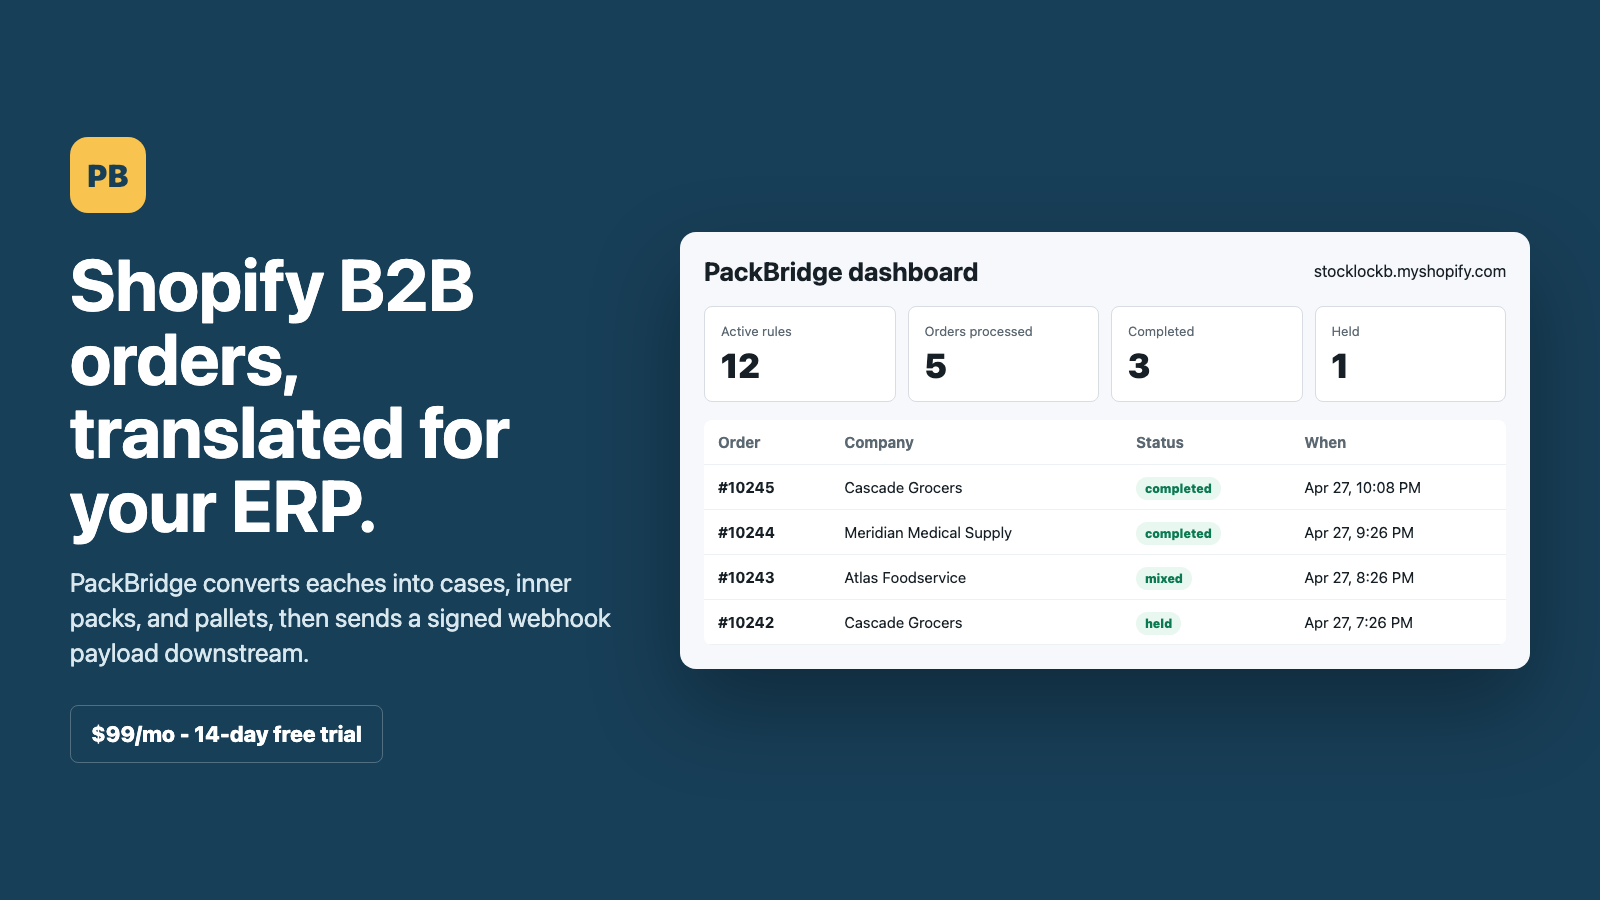
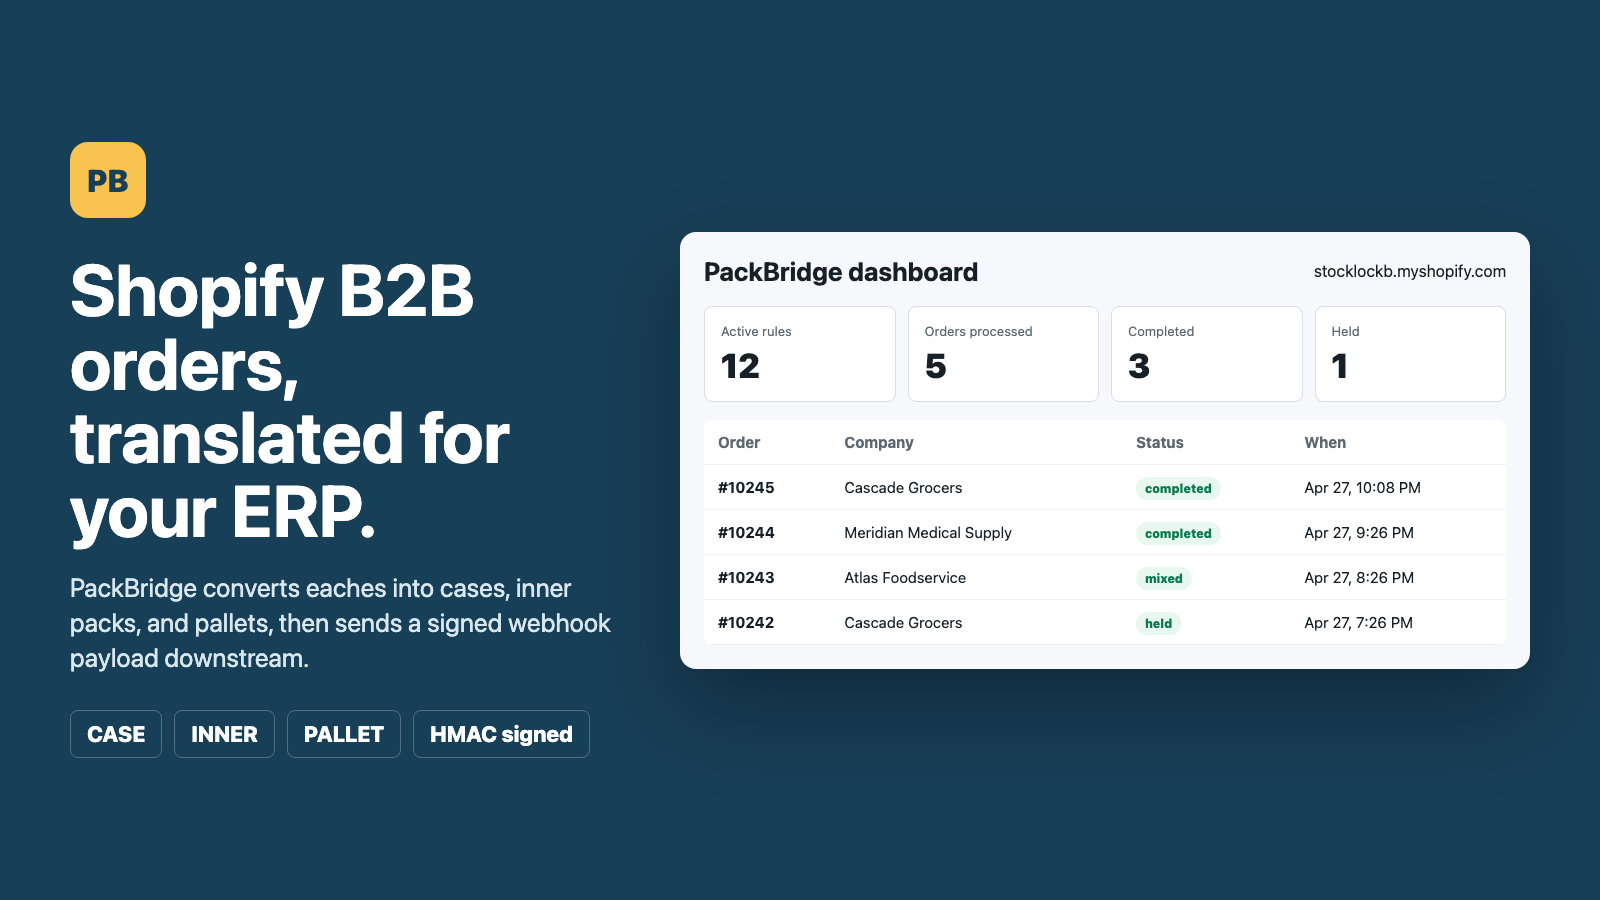
docs: align app store media with requirements

diff --git a/scripts/render-screenshots.ts b/scripts/render-screenshots.ts
@@ -446,7 +446,8 @@ function feature(data: Awaited<ReturnType<typeof loadData>>) {
     .mark { width:76px; height:76px; border-radius:18px; background:#f8c44f; color:${colors.navy}; display:grid; place-items:center; font-size:31px; font-weight:900; margin-bottom:34px; }
     h1 { font-size:72px; line-height:1.02; margin:0 0 24px; }
     p { color:#d9e8ee; font-size:26px; line-height:1.35; margin:0; }
-    .price { margin-top:34px; display:inline-flex; gap:14px; align-items:center; padding:15px 20px; border:1px solid rgba(255,255,255,.25); border-radius:8px; color:#fff; font-weight:800; font-size:22px; }
+    .chips { display:flex; gap:12px; flex-wrap:wrap; margin-top:34px; }
+    .chip { display:inline-flex; align-items:center; height:48px; padding:0 16px; border:1px solid rgba(255,255,255,.25); border-radius:8px; color:#fff; font-weight:800; font-size:22px; }
     .dash { background:#f6f8fb; border-radius:16px; padding:24px; color:${colors.ink}; box-shadow:0 38px 90px rgba(0,0,0,.32); }
     .top { display:flex; justify-content:space-between; align-items:center; margin-bottom:20px; }
     .top strong { font-size:26px; }
@@ -459,7 +460,7 @@ function feature(data: Awaited<ReturnType<typeof loadData>>) {
     th { color:${colors.muted}; }
     .badge { border-radius:999px; padding:4px 9px; background:#e8f7ef; color:${colors.green}; font-weight:900; font-size:12px; }
   </style></head><body><div class="hero">
-    <section><div class="mark">PB</div><h1>Shopify B2B orders, translated for your ERP.</h1><p>PackBridge converts eaches into cases, inner packs, and pallets, then sends a signed webhook payload downstream.</p><div class="price">$99/mo - 14-day free trial</div></section>
+    <section><div class="mark">PB</div><h1>Shopify B2B orders, translated for your ERP.</h1><p>PackBridge converts eaches into cases, inner packs, and pallets, then sends a signed webhook payload downstream.</p><div class="chips"><span class="chip">CASE</span><span class="chip">INNER</span><span class="chip">PALLET</span><span class="chip">HMAC signed</span></div></section>
     <section class="dash"><div class="top"><strong>PackBridge dashboard</strong><span>stocklockb.myshopify.com</span></div><div class="grid">
       <div class="card"><div class="label">Active rules</div><div class="num">${data.rules.length}</div></div>
       <div class="card"><div class="label">Orders processed</div><div class="num">${data.jobs.length}</div></div>

diff --git a/scripts/render-demo-video.ts b/scripts/render-demo-video.ts
@@ -168,7 +168,8 @@ function endCard(): string {
       <div>
         <div class="mark" style="margin:0 auto 42px">PB</div>
         <h1>PackBridge</h1>
-        <p style="font-size:34px;margin-top:24px">$99/mo - 14-day free trial - packbridge.app</p>
+        <p style="font-size:34px;margin-top:24px">Shopify B2B orders, translated for your ERP.</p>
+        <p style="font-size:28px;margin-top:18px;color:${colors.muted}">packbridge.app</p>
       </div>
     </div>`,
   );

diff --git a/docs/app-store-readiness.md b/docs/app-store-readiness.md
@@ -14,40 +14,42 @@ The requested Shopify Dev MCP tool was not available in this Codex session, so t
 
 ## Done
 
-- App listing draft exists in `docs/app-store-listing.md`.
-- Pricing copy is isolated to the Pricing section: PackBridge Monthly, $99 USD every 30 days, 14-day free trial.
-- Scope list is least-privilege: `read_orders`, `read_products`, `read_companies`, `read_customers`.
-- Scope justification copy is present for all requested scopes.
-- Embedded app uses Shopify Admin UI and GraphQL Admin API paths; no REST Admin API usage was found in app code.
-- GDPR routes exist for `customers/data_request`, `customers/redact`, and `shop/redact`.
-- `shopify.app.toml` declares mandatory compliance webhook subscriptions.
-- `shop/redact` now purges shop-scoped PackBridge data instead of logging a no-op.
-- `public/privacy.html` exists.
-- `docker build .` passes locally with Docker Engine 29.4.1 / Colima on macOS arm64.
-- Dev-store E2E validation passed for sync, UI rule create, CSV import, real B2B orders, HMAC-signed outbound payloads, Jobs UI, all three enforcement modes, non-divisible validation, and retry.
-- Demo seed data exists for `stocklockb.myshopify.com` via `npm run seed:demo`.
-- App Store screenshot assets exist in `docs/screenshots/`: seven 1600 x 900 PNGs, one 1600 x 900 feature banner, and one 1200 x 1200 placeholder icon.
-- Silent 60-second demo video exists locally at `docs/video/demo.mp4`, is ignored by git, and is uploaded to YouTube as an unlisted video: https://youtu.be/PxIUVxpoqJ4.
-- Narrated onboarding video exists locally at `docs/video/onboarding.mp4`, is ignored by git, and is uploaded to YouTube as an unlisted video: https://youtu.be/c2wql68aKgo; captions are committed at `docs/video/onboarding.srt`.
+- ✅ App listing draft exists in `docs/app-store-listing.md`.
+- ✅ Pricing copy is isolated to the Pricing section: PackBridge Monthly, $99 USD every 30 days, 14-day free trial.
+- ✅ Scope list is least-privilege: `read_orders`, `read_products`, `read_companies`, `read_customers`.
+- ✅ Scope justification copy is present for all requested scopes.
+- ✅ Embedded app uses Shopify Admin UI and GraphQL Admin API paths; no REST Admin API usage was found in app code.
+- ✅ GDPR routes exist for `customers/data_request`, `customers/redact`, and `shop/redact`.
+- ✅ `shopify.app.toml` declares mandatory compliance webhook subscriptions.
+- ✅ `shop/redact` now purges shop-scoped PackBridge data instead of logging a no-op.
+- ✅ `public/privacy.html` exists.
+- ✅ `docker build .` passes locally with Docker Engine 29.4.1 / Colima on macOS arm64.
+- ✅ Dev-store E2E validation passed for sync, UI rule create, CSV import, real B2B orders, HMAC-signed outbound payloads, Jobs UI, all three enforcement modes, non-divisible validation, and retry.
+- ✅ Demo seed data exists for `stocklockb.myshopify.com` via `npm run seed:demo`.
+- ✅ App Store screenshot assets exist in `docs/screenshots/`: seven 1600 x 900 PNGs, one 1600 x 900 feature banner, and one 1200 x 1200 placeholder icon.
+- ✅ Listing media keeps pricing out of screenshots, the feature banner, the app icon, and the demo video.
+- ✅ Silent 60-second demo video exists locally at `docs/video/demo.mp4`, is ignored by git, and is uploaded to YouTube as an unlisted video: https://youtu.be/eolSf1iutSM.
+- ✅ Narrated onboarding video exists locally at `docs/video/onboarding.mp4`, is ignored by git, and is uploaded to YouTube as an unlisted video: https://youtu.be/c2wql68aKgo; captions are committed at `docs/video/onboarding.srt`.
 
 ## Needs User Input
 
-- App icon: replace `docs/screenshots/icon-1200.png` if final brand artwork differs from the placeholder PackBridge mark.
-- Onboarding voiceover: current video uses macOS `say` voice for v1; replace with a human narration if desired before launch.
-- Demo store URL and reviewer testing instructions.
-- Support email: confirm `support@packbridge.app` exists and is monitored.
-- Documentation URL: `https://packbridge.app/docs` is listed as "to be added"; provide or remove before submission.
-- Privacy URL: confirm production serves `https://packbridge.app/privacy.html`.
-- Partner Dashboard contact email: add `app-submissions@shopify.com` and `noreply@shopify.com` to allowed senders.
-- Protected customer data access: confirm whether Shopify requires an access request for `read_customers`; if so, submit the request with the purchasing-entity justification.
+- ⚠ App icon: replace `docs/screenshots/icon-1200.png` if final brand artwork differs from the placeholder PackBridge mark.
+- ⚠ Onboarding voiceover: current video uses macOS `say` voice for v1; replace with a human narration if desired before launch.
+- ⚠ Demo store URL and reviewer testing instructions.
+- ⚠ Support email: confirm `support@packbridge.app` exists and is monitored.
+- ⚠ Documentation URL: `https://packbridge.app/docs` is listed as "to be added"; provide or remove before submission.
+- ⚠ Privacy URL: confirm production serves `https://packbridge.app/privacy.html`.
+- ⚠ Partner Dashboard contact email: add `app-submissions@shopify.com` and `noreply@shopify.com` to allowed senders.
+- ⚠ Protected customer data access: confirm whether Shopify requires an access request for `read_customers`; if so, submit the request with the purchasing-entity justification.
 
 ## Needs Final Verification
 
-- Production host URL and Shopify Partner app URL are not set yet.
-- Billing must be tested once deployed with `NODE_ENV=production` so production charges are not accidentally created as test charges.
-- OAuth install/reinstall flow must be tested against the production host and redirect URLs.
-- App Bridge script placement should be rechecked in production. Shopify requires the latest App Bridge; PackBridge currently loads `app-bridge.js` after hydration to avoid embedded preview crashes.
-- Confirm the App Store listing images contain no pricing, testimonials, stats, Shopify trademarks, browser chrome, desktop backgrounds, duplicate screenshots, or logo-only screenshots.
+- ❌ Production host URL and Shopify Partner app URL are not set yet.
+- ❌ Billing must be tested once deployed with `NODE_ENV=production` so production charges are not accidentally created as test charges.
+- ❌ OAuth install/reinstall flow must be tested against the production host and redirect URLs.
+- ⚠ App Bridge script placement should be rechecked in production. Shopify requires the latest App Bridge; PackBridge currently loads `app-bridge.js` after hydration to avoid embedded preview crashes.
+- ✅ App Store listing images were regenerated and verified to avoid pricing, testimonials, stats, Shopify trademarks, browser chrome, desktop backgrounds, duplicate screenshots, and logo-only screenshots.
+- ❌ Shopify App Store submission has not been clicked; final submit remains gated until production deploy and smoke test are complete.
 
 ## Reviewer Notes To Prepare
 

diff --git a/docs/app-store-listing.md b/docs/app-store-listing.md
@@ -102,7 +102,7 @@ _Not used:_ Online Store, Checkout, Storefront API, Shopify Functions, POS.
 
 ## Video assets
 
-- Demo video: https://youtu.be/PxIUVxpoqJ4
+- Demo video: https://youtu.be/eolSf1iutSM
 - Onboarding video: https://youtu.be/c2wql68aKgo
 - Local demo source: `docs/video/demo.mp4` (ignored by git).
 - Local onboarding source: `docs/video/onboarding.mp4` (ignored by git).
